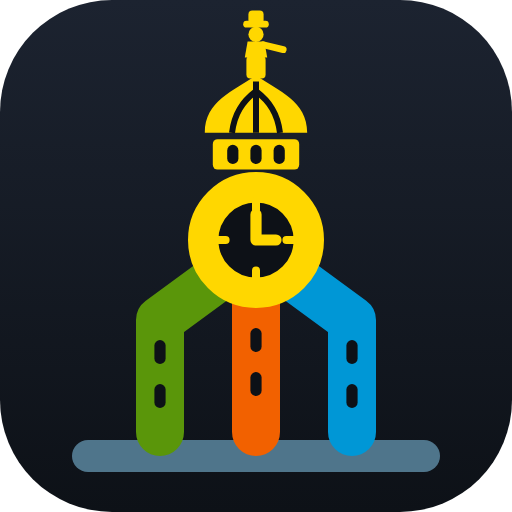
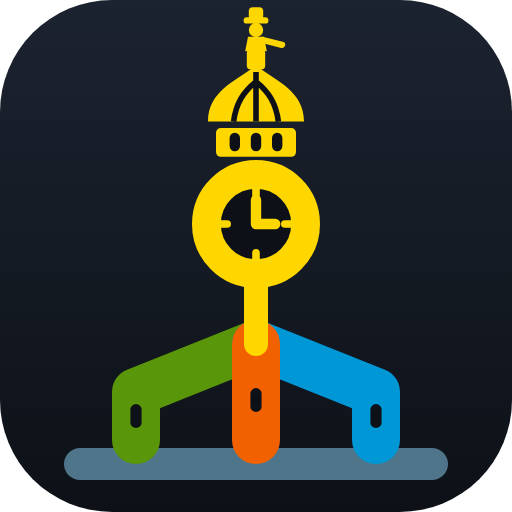
Converge the base lines into a single tower shaft
Match City Hall's silhouette: the wide L1, B, and T lines now form the
low building and meet in one point, and a single narrow yellow line rises
from there as the tower shaft to the clock. The middle line draws last
so the join is symmetric. Billy Penn's arm is lowered to reach out over
the city, as on the statue, instead of raised. PNGs regenerated.

Claude-Session: https://claude.ai/code/session_01SDaXcSV7PRVGm2Rk6dKjyn

Changed region(s): [[0.125, 0.0, 0.875, 0.9375]]

diff --git a/src/components/BrandMark.jsx b/src/components/BrandMark.jsx
@@ -1,8 +1,8 @@
 import { useId } from 'react';
 
 // The site's mark (same drawing as public/favicon.svg): Philadelphia City
-// Hall's tower drawn in transit lines — the L1, B, and T colors rise as the
-// shaft and meet at the clock, under the drum, dome, and William Penn.
+// Hall drawn in transit lines — the L1, B, and T colors form the building and
+// converge into the tower's shaft, up to the clock, drum, dome, and Penn.
 // Decorative — the site name always sits beside it.
 export default function BrandMark({ className = 'h-8 w-8' }) {
   // The header and footer both render a mark, so the gradient id must be unique
@@ -18,54 +18,50 @@ export default function BrandMark({ className = 'h-8 w-8' }) {
       </defs>
       <rect width="64" height="64" rx="14" fill={`url(#${bg})`} />
       {/* City Hall's roofline, in the Regional Rail slate */}
-      <path d="M11 57h42" stroke="#4F758B" strokeWidth="4" strokeLinecap="round" />
-      {/* The shaft: L1, B, and T lines rising to meet at the clock */}
+      <path d="M10 58h44" stroke="#4F758B" strokeWidth="4" strokeLinecap="round" />
+      {/* The building: L1, B, and T lines rising and converging under the tower */}
       <g strokeWidth="6" strokeLinecap="round" strokeLinejoin="round" fill="none">
-        <path d="M20 54V40l7.5-5.5" stroke="#5A960A" />
-        <path d="M32 54V37" stroke="#F26100" />
-        <path d="M44 54V40l-7.5-5.5" stroke="#0097D6" />
+        <path d="M17 55v-6l15-6" stroke="#5A960A" />
+        <path d="M47 55v-6l-15-6" stroke="#0097D6" />
+        <path d="M32 55V43" stroke="#F26100" />
       </g>
-      {/* Shaft windows */}
+      {/* Windows */}
       <g fill="#0d1117">
-        <rect x="19.3" y="42.5" width="1.4" height="3" rx=".7" />
-        <rect x="19.3" y="48" width="1.4" height="3" rx=".7" />
-        <rect x="31.3" y="41" width="1.4" height="3" rx=".7" />
-        <rect x="31.3" y="46.5" width="1.4" height="3" rx=".7" />
-        <rect x="43.3" y="42.5" width="1.4" height="3" rx=".7" />
-        <rect x="43.3" y="48" width="1.4" height="3" rx=".7" />
+        <rect x="16.3" y="50.5" width="1.4" height="3" rx=".7" />
+        <rect x="31.3" y="48.5" width="1.4" height="3" rx=".7" />
+        <rect x="46.3" y="50.5" width="1.4" height="3" rx=".7" />
       </g>
+      {/* The tower shaft, one narrow line up to the clock */}
+      <path d="M32 43V35" stroke="#FFD700" strokeWidth="3" strokeLinecap="round" />
       {/* Clock face */}
-      <circle cx="32" cy="30" r="6.6" fill="#0d1117" stroke="#FFD700" strokeWidth="3.8" />
+      <circle cx="32" cy="28" r="6.2" fill="#0d1117" stroke="#FFD700" strokeWidth="3.6" />
       <g stroke="#FFD700" strokeLinecap="round">
-        <path d="M32 25.1v1.1M36.9 30h-1.1M32 34.9v-1.1M27.1 30h1.1" strokeWidth="1" />
-        <path d="M32 30v-3.2M32 30h2.5" strokeWidth="1.4" />
+        <path d="M32 23.4v1M36.6 28h-1M32 32.6v-1M27.4 28h1" strokeWidth=".95" />
+        <path d="M32 28v-3M32 28h2.4" strokeWidth="1.3" />
       </g>
       {/* Drum with arched windows, ribbed dome, lantern */}
-      <rect x="26.6" y="17.4" width="10.8" height="3.8" rx=".6" fill="#FFD700" />
+      <rect x="27" y="16" width="10" height="3.6" rx=".6" fill="#FFD700" />
       <g fill="#0d1117">
-        <rect x="28.4" y="18.1" width="1.4" height="2.4" rx=".7" />
-        <rect x="31.3" y="18.1" width="1.4" height="2.4" rx=".7" />
-        <rect x="34.2" y="18.1" width="1.4" height="2.4" rx=".7" />
+        <rect x="28.7" y="16.6" width="1.3" height="2.3" rx=".65" />
+        <rect x="31.35" y="16.6" width="1.3" height="2.3" rx=".65" />
+        <rect x="34" y="16.6" width="1.3" height="2.3" rx=".65" />
       </g>
+      <path d="M26 15.2C26 11.4 29.4 10.2 32 8.2 34.6 10.2 38 11.4 38 15.2Z" fill="#FFD700" />
       <path
-        d="M25.6 16.6C25.6 12.6 29.2 11.4 32 9.4 34.8 11.4 38.4 12.6 38.4 16.6Z"
-        fill="#FFD700"
-      />
-      <path
-        d="M32 10.2v6.4M29 16.6c.3-2.4 1.3-3.9 3-5.2M35 16.6c-.3-2.4-1.3-3.9-3-5.2"
+        d="M32 9v6.2M29.2 15.2c.3-2.3 1.2-3.7 2.8-5M34.8 15.2c-.3-2.3-1.2-3.7-2.8-5"
         stroke="#0d1117"
-        strokeWidth=".75"
+        strokeWidth=".7"
         fill="none"
       />
-      <rect x="30.8" y="7" width="2.4" height="2.8" rx=".5" fill="#FFD700" />
+      <rect x="30.85" y="6.2" width="2.3" height="2.5" rx=".5" fill="#FFD700" />
       {/* William Penn */}
       <g fill="#FFD700">
-        <rect x="30.4" y="2.6" width="3.2" height=".85" rx=".42" />
-        <rect x="31.05" y="1.3" width="1.9" height="1.7" rx=".5" />
-        <circle cx="32" cy="4.3" r=".95" />
-        <path d="M30.95 5.2h2.1l.35 2h-2.8z" />
+        <rect x="30.45" y="2.15" width="3.1" height=".8" rx=".4" />
+        <rect x="31.1" y=".9" width="1.8" height="1.6" rx=".5" />
+        <circle cx="32" cy="3.75" r=".9" />
+        <path d="M31 4.6h2l.35 1.8h-2.7z" />
       </g>
-      <path d="M32.9 5.6l2.5.6" stroke="#FFD700" strokeWidth=".85" strokeLinecap="round" />
+      <path d="M32.85 5l2.4.6" stroke="#FFD700" strokeWidth=".8" strokeLinecap="round" />
     </svg>
   );
 }

diff --git a/scripts/og-template.html b/scripts/og-template.html
@@ -182,46 +182,45 @@
               </defs>
               <rect width="64" height="64" rx="14" fill="url(#bg)" />
               <!-- City Hall's roofline, in the Regional Rail slate -->
-              <path d="M11 57h42" stroke="#4F758B" stroke-width="4" stroke-linecap="round" />
-              <!-- The shaft: L1, B, and T lines rising to meet at the clock -->
+              <path d="M10 58h44" stroke="#4F758B" stroke-width="4" stroke-linecap="round" />
+              <!-- The building: L1, B, and T lines rising and converging under the tower -->
               <g stroke-width="6" stroke-linecap="round" stroke-linejoin="round" fill="none">
-                <path d="M20 54V40l7.5-5.5" stroke="#5A960A" />
-                <path d="M32 54V37" stroke="#F26100" />
-                <path d="M44 54V40l-7.5-5.5" stroke="#0097D6" />
+                <path d="M17 55v-6l15-6" stroke="#5A960A" />
+                <path d="M47 55v-6l-15-6" stroke="#0097D6" />
+                <path d="M32 55V43" stroke="#F26100" />
               </g>
-              <!-- Shaft windows -->
+              <!-- Windows -->
               <g fill="#0d1117">
-                <rect x="19.3" y="42.5" width="1.4" height="3" rx=".7" />
-                <rect x="19.3" y="48" width="1.4" height="3" rx=".7" />
-                <rect x="31.3" y="41" width="1.4" height="3" rx=".7" />
-                <rect x="31.3" y="46.5" width="1.4" height="3" rx=".7" />
-                <rect x="43.3" y="42.5" width="1.4" height="3" rx=".7" />
-                <rect x="43.3" y="48" width="1.4" height="3" rx=".7" />
+                <rect x="16.3" y="50.5" width="1.4" height="3" rx=".7" />
+                <rect x="31.3" y="48.5" width="1.4" height="3" rx=".7" />
+                <rect x="46.3" y="50.5" width="1.4" height="3" rx=".7" />
               </g>
+              <!-- The tower shaft, one narrow line up to the clock -->
+              <path d="M32 43V35" stroke="#FFD700" stroke-width="3" stroke-linecap="round" />
               <!-- Clock face -->
-              <circle cx="32" cy="30" r="6.6" fill="#0d1117" stroke="#FFD700" stroke-width="3.8" />
+              <circle cx="32" cy="28" r="6.2" fill="#0d1117" stroke="#FFD700" stroke-width="3.6" />
               <g stroke="#FFD700" stroke-linecap="round">
-                <path d="M32 25.1v1.1M36.9 30h-1.1M32 34.9v-1.1M27.1 30h1.1" stroke-width="1" />
-                <path d="M32 30v-3.2M32 30h2.5" stroke-width="1.4" />
+                <path d="M32 23.4v1M36.6 28h-1M32 32.6v-1M27.4 28h1" stroke-width=".95" />
+                <path d="M32 28v-3M32 28h2.4" stroke-width="1.3" />
               </g>
               <!-- Drum with arched windows, ribbed dome, lantern -->
-              <rect x="26.6" y="17.4" width="10.8" height="3.8" rx=".6" fill="#FFD700" />
+              <rect x="27" y="16" width="10" height="3.6" rx=".6" fill="#FFD700" />
               <g fill="#0d1117">
-                <rect x="28.4" y="18.1" width="1.4" height="2.4" rx=".7" />
-                <rect x="31.3" y="18.1" width="1.4" height="2.4" rx=".7" />
-                <rect x="34.2" y="18.1" width="1.4" height="2.4" rx=".7" />
+                <rect x="28.7" y="16.6" width="1.3" height="2.3" rx=".65" />
+                <rect x="31.35" y="16.6" width="1.3" height="2.3" rx=".65" />
+                <rect x="34" y="16.6" width="1.3" height="2.3" rx=".65" />
               </g>
-              <path d="M25.6 16.6C25.6 12.6 29.2 11.4 32 9.4 34.8 11.4 38.4 12.6 38.4 16.6Z" fill="#FFD700" />
-              <path d="M32 10.2v6.4M29 16.6c.3-2.4 1.3-3.9 3-5.2M35 16.6c-.3-2.4-1.3-3.9-3-5.2" stroke="#0d1117" stroke-width=".75" fill="none" />
-              <rect x="30.8" y="7" width="2.4" height="2.8" rx=".5" fill="#FFD700" />
+              <path d="M26 15.2C26 11.4 29.4 10.2 32 8.2 34.6 10.2 38 11.4 38 15.2Z" fill="#FFD700" />
+              <path d="M32 9v6.2M29.2 15.2c.3-2.3 1.2-3.7 2.8-5M34.8 15.2c-.3-2.3-1.2-3.7-2.8-5" stroke="#0d1117" stroke-width=".7" fill="none" />
+              <rect x="30.85" y="6.2" width="2.3" height="2.5" rx=".5" fill="#FFD700" />
               <!-- William Penn -->
               <g fill="#FFD700">
-                <rect x="30.4" y="2.6" width="3.2" height=".85" rx=".42" />
-                <rect x="31.05" y="1.3" width="1.9" height="1.7" rx=".5" />
-                <circle cx="32" cy="4.3" r=".95" />
-                <path d="M30.95 5.2h2.1l.35 2h-2.8z" />
+                <rect x="30.45" y="2.15" width="3.1" height=".8" rx=".4" />
+                <rect x="31.1" y=".9" width="1.8" height="1.6" rx=".5" />
+                <circle cx="32" cy="3.75" r=".9" />
+                <path d="M31 4.6h2l.35 1.8h-2.7z" />
               </g>
-              <path d="M32.9 5.6l2.5.6" stroke="#FFD700" stroke-width=".85" stroke-linecap="round" />
+              <path d="M32.85 5l2.4.6" stroke="#FFD700" stroke-width=".8" stroke-linecap="round" />
             </svg>
             <h1 class="title">SEPTA<br /><span class="product">Transit Alerts</span></h1>
           </div>
